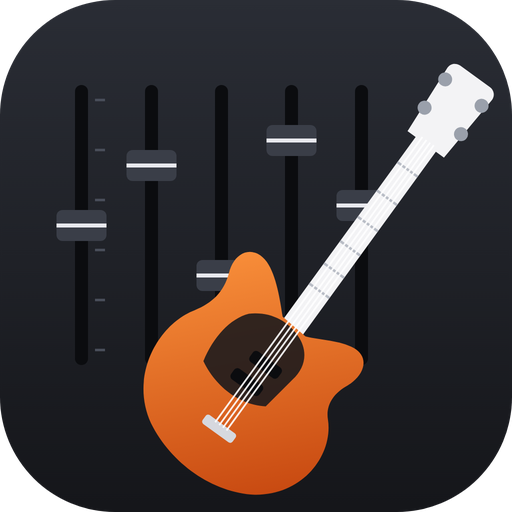
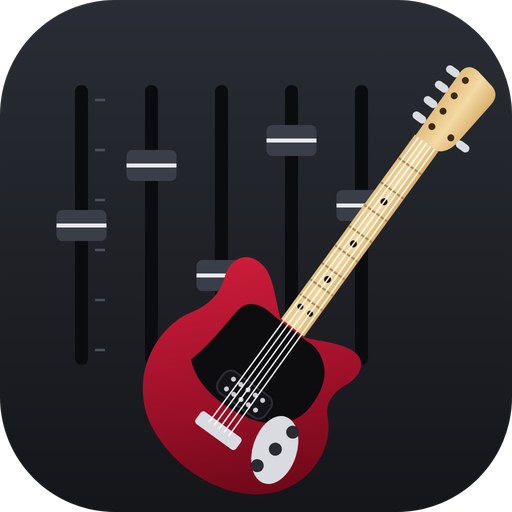
Versione 0.2.2 [rilascio]
- Icona: basso stile StingRay 5 corde, rosso rubino, battipenna nero, manico in acero
- Concerti: la cifra si legge anche come solo numero nella descrizione (es. 80)

Claude-Session: https://claude.ai/code/session_01XkLitZc8ny4oNnfRXMRuxJ

Changed region(s): [[0.25, 0.125, 0.9688, 0.9688]]

diff --git a/src/core.js b/src/core.js
@@ -212,11 +212,21 @@ export function parseExpenses(text) {
 }
 
 // Cifra netta di un concerto scritta nell'evento: "150 €", "€150", "150 euro", "cachet 150", "netto 150"
-export function parseConcertFee(text) {
+export function parseConcertFee(text, allowBare = false) {
   const t = stripHtml(text || '');
   const m = t.match(/€\s*(\d+(?:[.,]\d{1,2})?)/) || t.match(/(\d+(?:[.,]\d{1,2})?)\s*(?:€|euro\b|eur\b)/i)
     || t.match(/\b(?:cachet|netto|compenso)\s*:?\s*(\d+(?:[.,]\d{1,2})?)/i);
-  return m ? num(m[1]) : null;
+  if (m) return num(m[1]);
+  if (!allowBare) return null;
+  // nella descrizione basta il numero ("80"); si saltano gli orari ("21:00", "h 21")
+  const re = /(?<![\d:.,/h])(\d{1,4}(?:,\d{1,2})?)(?!\d|\s*[:.]\d|\s*(?:ore|h)\b)/gi;
+  let b;
+  while ((b = re.exec(t)) !== null) {
+    const before = t.slice(Math.max(0, b.index - 3), b.index);
+    if (/h\.?\s*$/i.test(before)) continue;
+    return num(b[1]);
+  }
+  return null;
 }
 
 // ---------- service ----------
@@ -338,10 +348,10 @@ export function computeDay(ctx) {
   const concerto = service?.tipo === 'concerti';
   if (concerto) {
     tipo = 'concerto';
-    const fee = parseConcertFee(desc) ?? parseConcertFee(ev.summary);
+    const fee = parseConcertFee(desc, true) ?? parseConcertFee(ev.summary);
     base = fee ?? 0;
     if (fee == null && !hasValue(ov.compenso) && date <= today && !/\?{3,}/.test(ev.summary || '')) {
-      issues.push({ code: 'cachet', text: 'Concerto senza cifra: scrivila nell\'evento (es. "150 €") o inseriscila qui' });
+      issues.push({ code: 'cachet', text: 'Concerto senza cifra: scrivila nella descrizione dell\'evento (es. "80") o inseriscila qui' });
     }
   } else if (service) {
     const tariffa = num(service.tariffa);

diff --git a/src/app.js b/src/app.js
@@ -572,7 +572,7 @@ function viewConcerts() {
       <div class="kpi"><div class="v">${fatti}</div><div class="l">concerti fatti</div></div>
       <div class="kpi"><div class="v">${prossimi.length}</div><div class="l">in programma</div></div>
     </div></div>
-    <div class="note info">Sono gli eventi con il colore ${esc(C.GOOGLE_COLORS[cSvc?.colorId]?.name || 'dei concerti')}. Scrivi la cifra netta nell'evento (es. "150 €"). Sono contati a parte: niente fatture, prospetto o ENPALS.</div>`;
+    <div class="note info">Sono gli eventi con il colore ${esc(C.GOOGLE_COLORS[cSvc?.colorId]?.name || 'dei concerti')}. Scrivi la cifra netta nella descrizione dell'evento (basta il numero, es. "80"). Sono contati a parte: niente fatture, prospetto o ENPALS.</div>`;
   const row = d => `<button class="list-row" data-act="day-any" data-key="${esc(d.key)}" data-ym="${d.date.slice(0, 7)}"><span class="sw" style="background:${colorOf(cSvc)}"></span>
     <span class="grow"><div><b>${esc(C.dateLabel(d.date))}</b> · ${esc(d.place || 'Concerto')}</div></span>
     <span class="amt">${d.compenso ? esc(C.eur(d.compenso)) : '<span class="badge warn">cifra?</span>'}</span></button>`;
